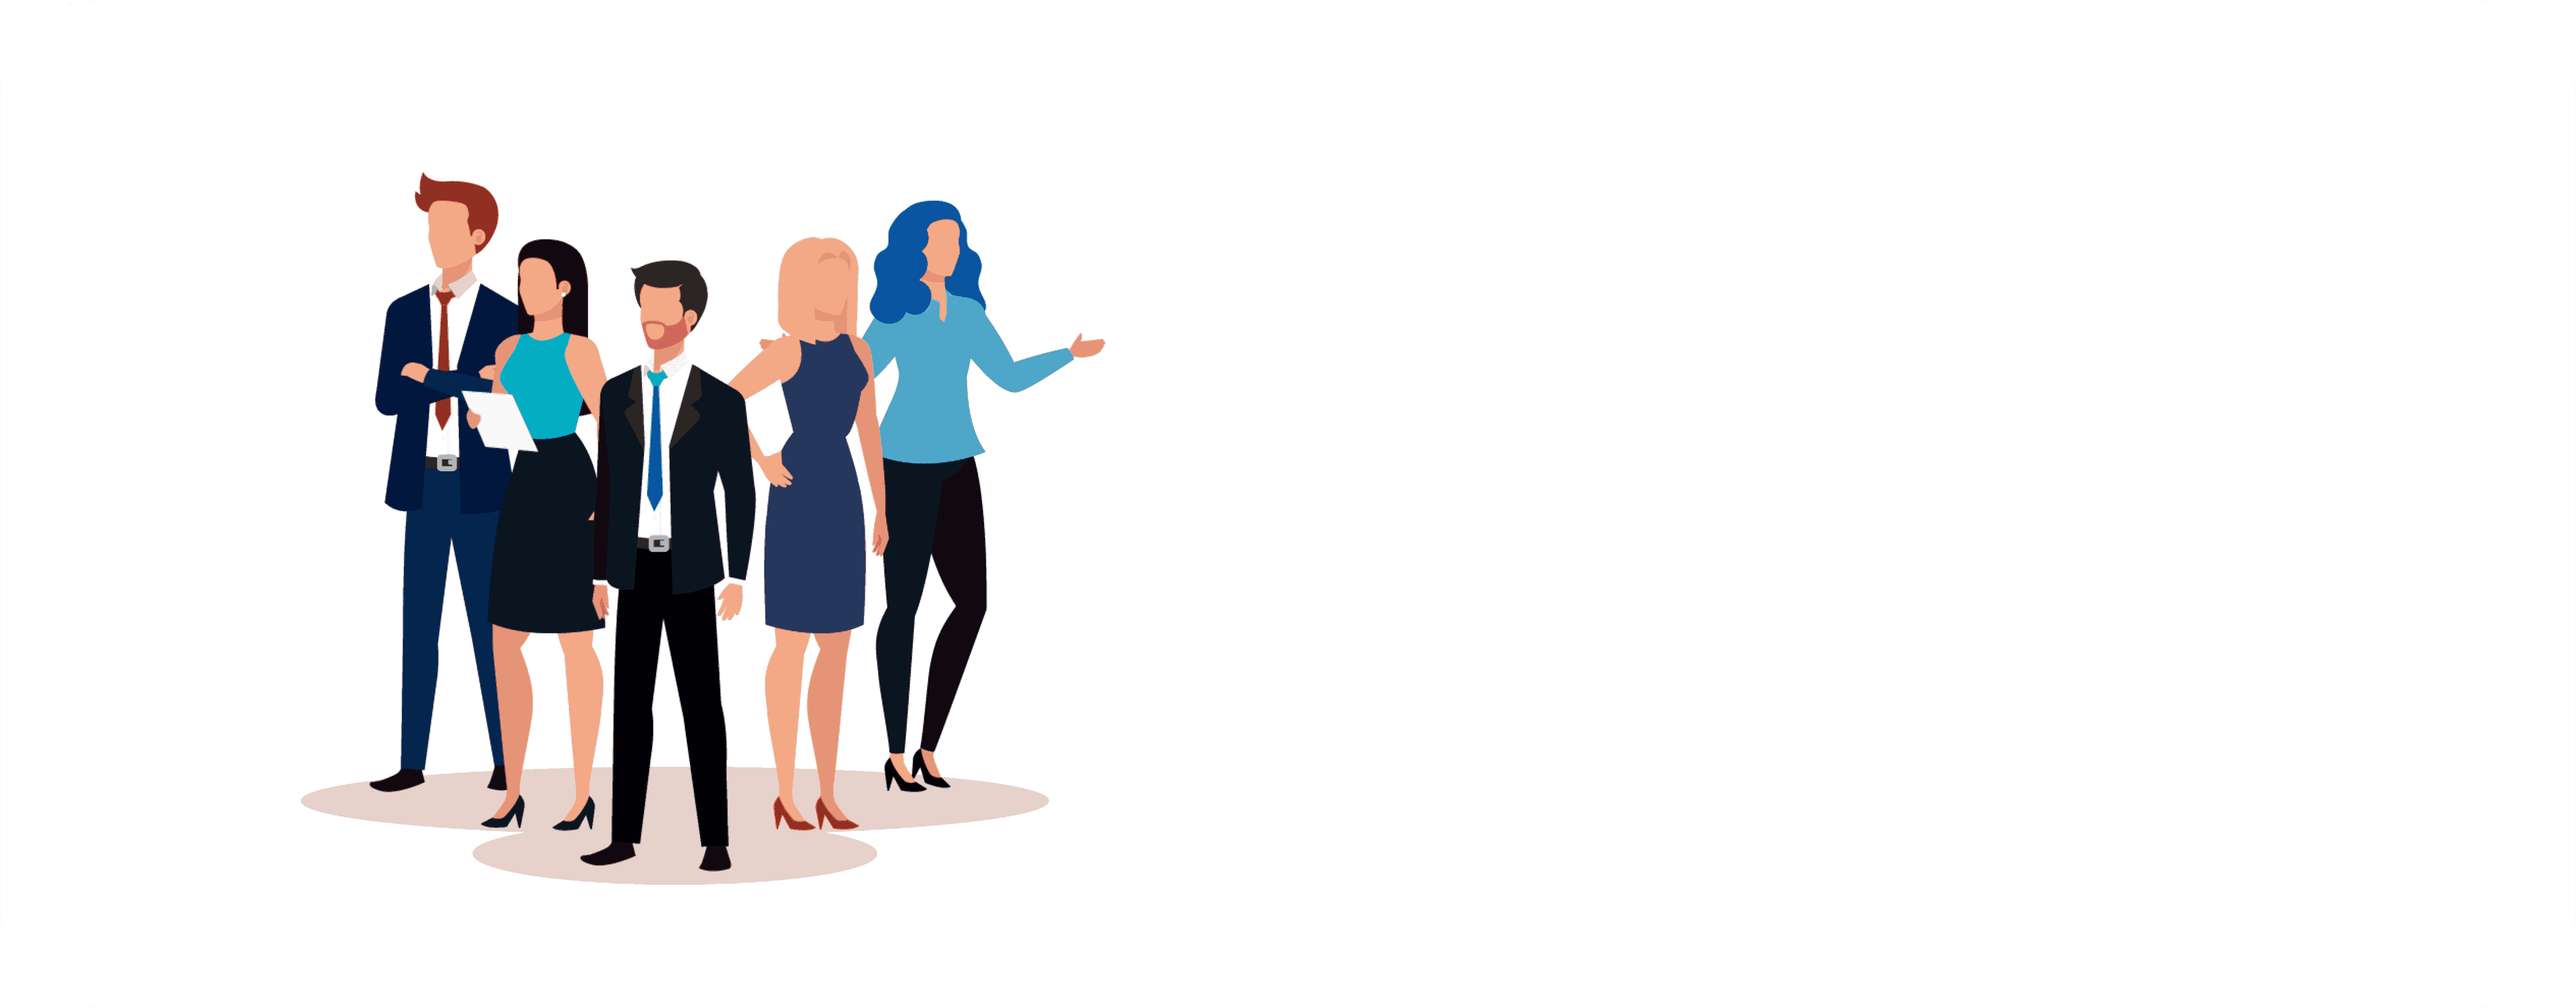
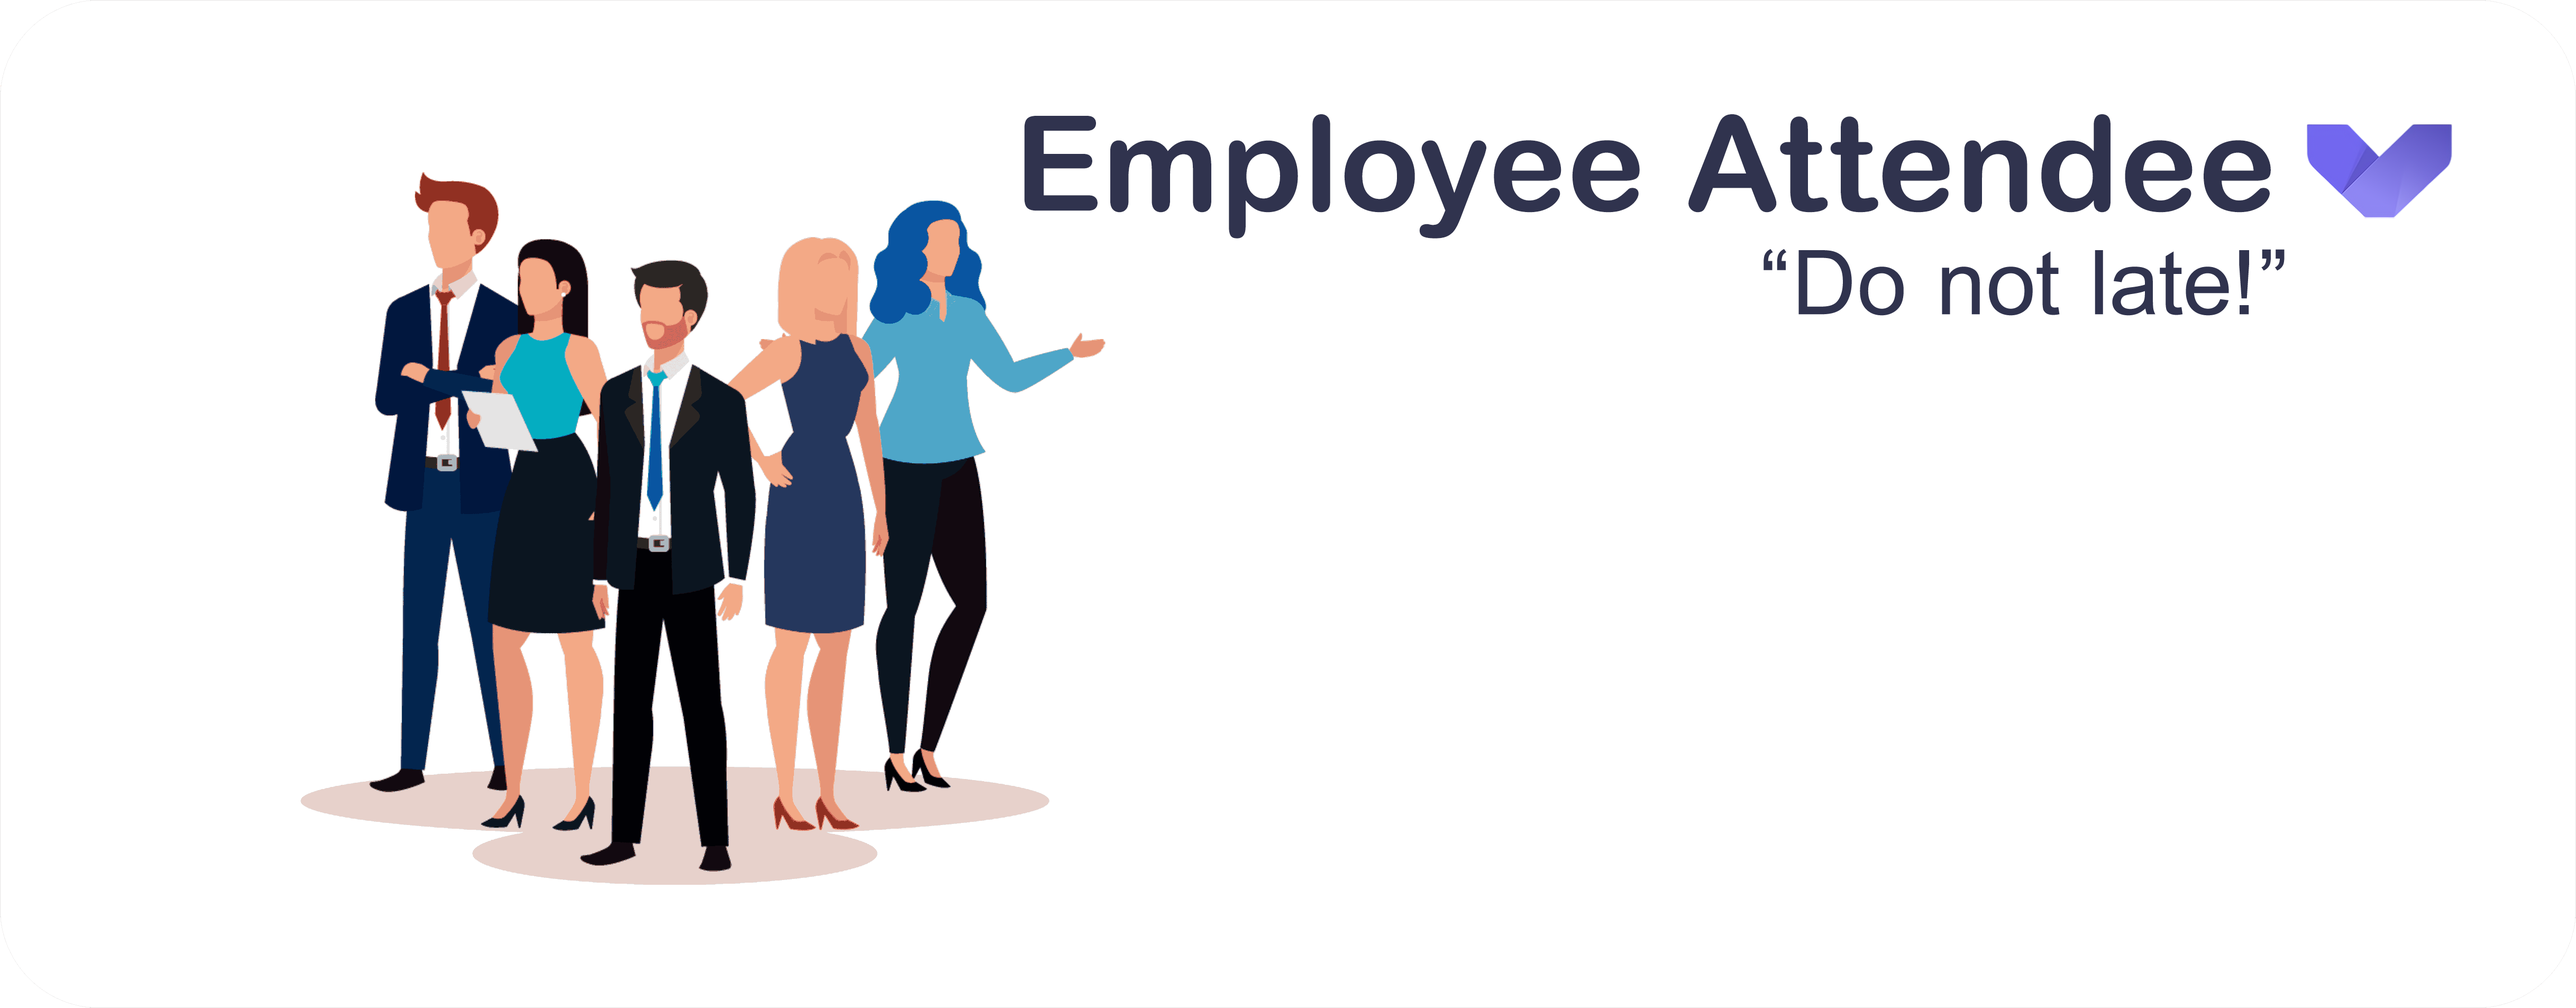
"Updated .gitignore in public/storage, added SVG code in p_landing.blade.php, and updated landing_image_2.png in public/storage and storage/app/public"

Changed region(s): [[0.3745, 0.0929, 0.9676, 0.2476], [0.6867, 0.2476, 0.9051, 0.3095]]

diff --git a/resources/views/pages/landings/p_landing.blade.php b/resources/views/pages/landings/p_landing.blade.php
@@ -163,6 +163,30 @@
                                 <small>{{ date('h:i A', strtotime('07:59')) }} to
                                     {{ date('h:i A', strtotime('18:01', time() + 8 * 60 * 60)) }}</small>
                             </div>
+                            <br><br><br>
+                            <svg viewBox="0 0 139 95" version="1.1" xmlns="http://www.w3.org/2000/svg" xmlns:xlink="http://www.w3.org/1999/xlink" height="100%">
+                                <defs>
+                                  <linearGradient id="linearGradient-1" x1="100%" y1="10.5120544%" x2="50%" y2="89.4879456%">
+                                    <stop stop-color="#000000" offset="0%"></stop>
+                                    <stop stop-color="#FFFFFF" offset="100%"></stop>
+                                  </linearGradient>
+                                  <linearGradient id="linearGradient-2" x1="64.0437835%" y1="46.3276743%" x2="37.373316%" y2="100%">
+                                    <stop stop-color="#EEEEEE" stop-opacity="0" offset="0%"></stop>
+                                    <stop stop-color="#FFFFFF" offset="100%"></stop>
+                                  </linearGradient>
+                                </defs>
+                                <g id="Page-1" stroke="none" stroke-width="1" fill="none" fill-rule="evenodd">
+                                  <g id="Artboard" transform="translate(-400.000000, -178.000000)">
+                                    <g id="Group" transform="translate(400.000000, 178.000000)">
+                                      <path class="text-primary" id="Path" d="M-5.68434189e-14,2.84217094e-14 L39.1816085,2.84217094e-14 L69.3453773,32.2519224 L101.428699,2.84217094e-14 L138.784583,2.84217094e-14 L138.784199,29.8015838 C137.958931,37.3510206 135.784352,42.5567762 132.260463,45.4188507 C128.736573,48.2809251 112.33867,64.5239941 83.0667527,94.1480575 L56.2750821,94.1480575 L6.71554594,44.4188507 C2.46876683,39.9813776 0.345377275,35.1089553 0.345377275,29.8015838 C0.345377275,24.4942122 0.230251516,14.560351 -5.68434189e-14,2.84217094e-14 Z" style="fill:currentColor"></path>
+                                      <path id="Path1" d="M69.3453773,32.2519224 L101.428699,1.42108547e-14 L138.784583,1.42108547e-14 L138.784199,29.8015838 C137.958931,37.3510206 135.784352,42.5567762 132.260463,45.4188507 C128.736573,48.2809251 112.33867,64.5239941 83.0667527,94.1480575 L56.2750821,94.1480575 L32.8435758,70.5039241 L69.3453773,32.2519224 Z" fill="url(#linearGradient-1)" opacity="0.2"></path>
+                                      <polygon id="Path-2" fill="#000000" opacity="0.049999997" points="69.3922914 32.4202615 32.8435758 70.5039241 54.0490008 16.1851325"></polygon>
+                                      <polygon id="Path-21" fill="#000000" opacity="0.099999994" points="69.3922914 32.4202615 32.8435758 70.5039241 58.3683556 20.7402338"></polygon>
+                                      <polygon id="Path-3" fill="url(#linearGradient-2)" opacity="0.099999994" points="101.428699 0 83.0667527 94.1480575 130.378721 47.0740288"></polygon>
+                                    </g>
+                                  </g>
+                                </g>
+                              </svg>
                         </div>
 
                         <div class="avatar-group h-auto w-auto d-flex align-items-center justify-content-center">
